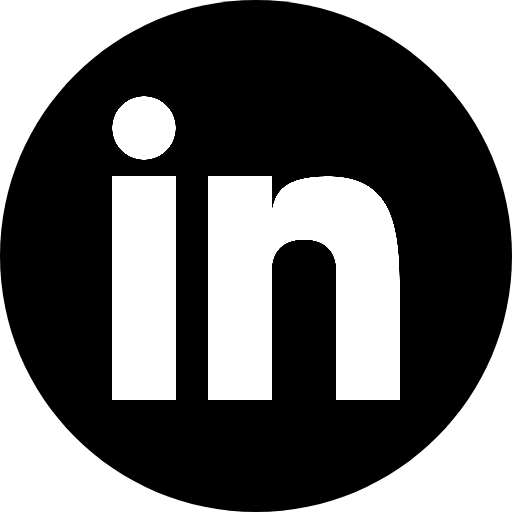
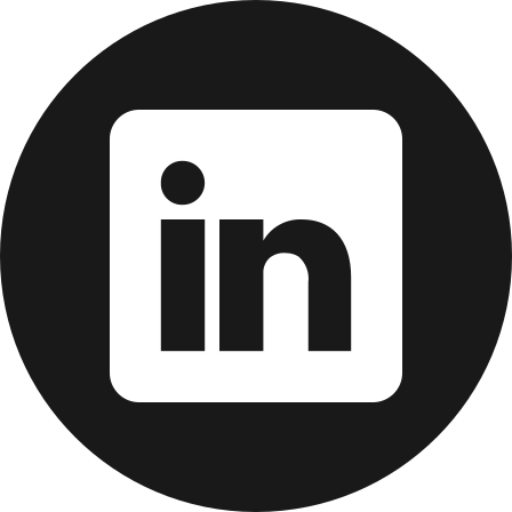
New commit

diff --git a/index.html b/index.html
@@ -4,43 +4,53 @@
     <meta charset="UTF-8">
     <meta http-equiv="X-UA-Compatible" content="IE=edge">
     <meta name="viewport" content="width=device-width, initial-scale=1.0">
-    <link href='https://fonts.googleapis.com/css?family=Open+Sans:800' rel="stylesheet" type="text/css">
+    <link href='https://fonts.googleapis.com/css?family=Open+Sans:700,500' rel="stylesheet" type="text/css">
     <link rel="stylesheet" href="style.css">
     <script src="script.js" defer></script>
     <title>abmu</title>
 </head>
 <body>
-    <div class="name">
-        <p class="extrabold">Abdul Muhaymin Abdul Hafiz</p>
-    </div>
-    <div class="links">
-        <ul>
-            <li>
-                <a href="mailto:amuhaymin@gmail.com?subject=Hello" title="Email">
-                    <img src="images/email.png" alt="Email">
-                </a>
-            </li>
-            <li>
-                <a href="#" title="Phone">
-                    <img src="images/phone.png" alt="Phone">
-                </a>
-            </li>
-            <li>
-                <a href="https://github.com/abmu" title="Github">
-                    <img src="images/github.png" alt="Github">
-                </a>
-            </li>
-            <li>
-                <a href="https://www.linkedin.com/in/abmu" title="Linkedin">
-                    <img src="images/linkedin.png" alt="Linkedin">
-                </a>
-            </li>
-            <li>
-                <a href="https://twitter.com/abmu__" title="Twitter">
-                    <img src="images/twitter.png" alt="Twitter">
-                </a>
-            </li>
-        </ul>
+    <div class="flex-container">
+        <div class="image">
+            <img id="image" src="images/image.png" alt="image">
+        </div>
+        <div class="name">
+            <div class="bold">
+                Abdul Muhaymin<br>Abdul Hafiz
+            </div>
+            <div class="medium">
+                Student
+            </div>
+        </div>
+        <div class="links">
+            <ul>
+                <li>
+                    <a href="mailto:amuhaymin@gmail.com?subject=Hello" title="email">
+                        <img src="images/email.png" alt="email">
+                    </a>
+                </li>
+                <li>
+                    <a href="#" title="phone">
+                        <img src="images/phone.png" alt="phone">
+                    </a>
+                </li>
+                <li>
+                    <a href="https://github.com/abmu" title="github">
+                        <img src="images/github.png" alt=github">
+                    </a>
+                </li>
+                <li>
+                    <a href="https://www.linkedin.com/in/abmu" title="linkedin">
+                        <img src="images/linkedin.png" alt="linkedin">
+                    </a>
+                </li>
+                <li>
+                    <a href="https://twitter.com/abmu__" title="twitter">
+                        <img src="images/twitter.png" alt="twitter">
+                    </a>
+                </li>
+            </ul>
+        </div>
     </div>
 </body>
 </html>

diff --git a/style.css b/style.css
@@ -1,25 +1,63 @@
-p {
+body {
     font-family: "Open Sans", sans-serif;
     font-style: normal;
-    font-size: 50px;
+    background: #ffffff;
+    color: #191919;
+    margin: 0px;
 }
 
-.extrabold { 
-    font-weight:800; 
+.medium {
+    font-weight: 500;
+    font-size: 36px;
+}
+
+.bold {
+    font-weight: 700;
+    font-size: 48px;
+}
+
+.flex-container {
+    height: 100vh;
+    display: flex;
+    flex-direction: column;
+    justify-content:center;
+    align-items:center;
+    text-align: center;
+
+}
+
+.image {
+    background-color: red;
+}
+
+.name {
+    background-color: blue;
+}
+
+.links {
+    background-color: purple;
+    width: 100%;
 }
 
 ul {
     display: flex;
-    justify-content: center;
-    align-items: center;
+    flex-direction: row;
+    justify-content:center;
+    align-items:center;
+    padding: 20px 0 20px 0;
 }
 
 ul > li {
+    list-style: none;
     display: inline-block;
-    margin-left: 2%;
-    margin-right: 2%;
+    margin-left: 3%;
+    margin-right: 3%;
 }
 
 img {
     width: 50px;
+}
+
+#image {
+    width: 128px;
 }
